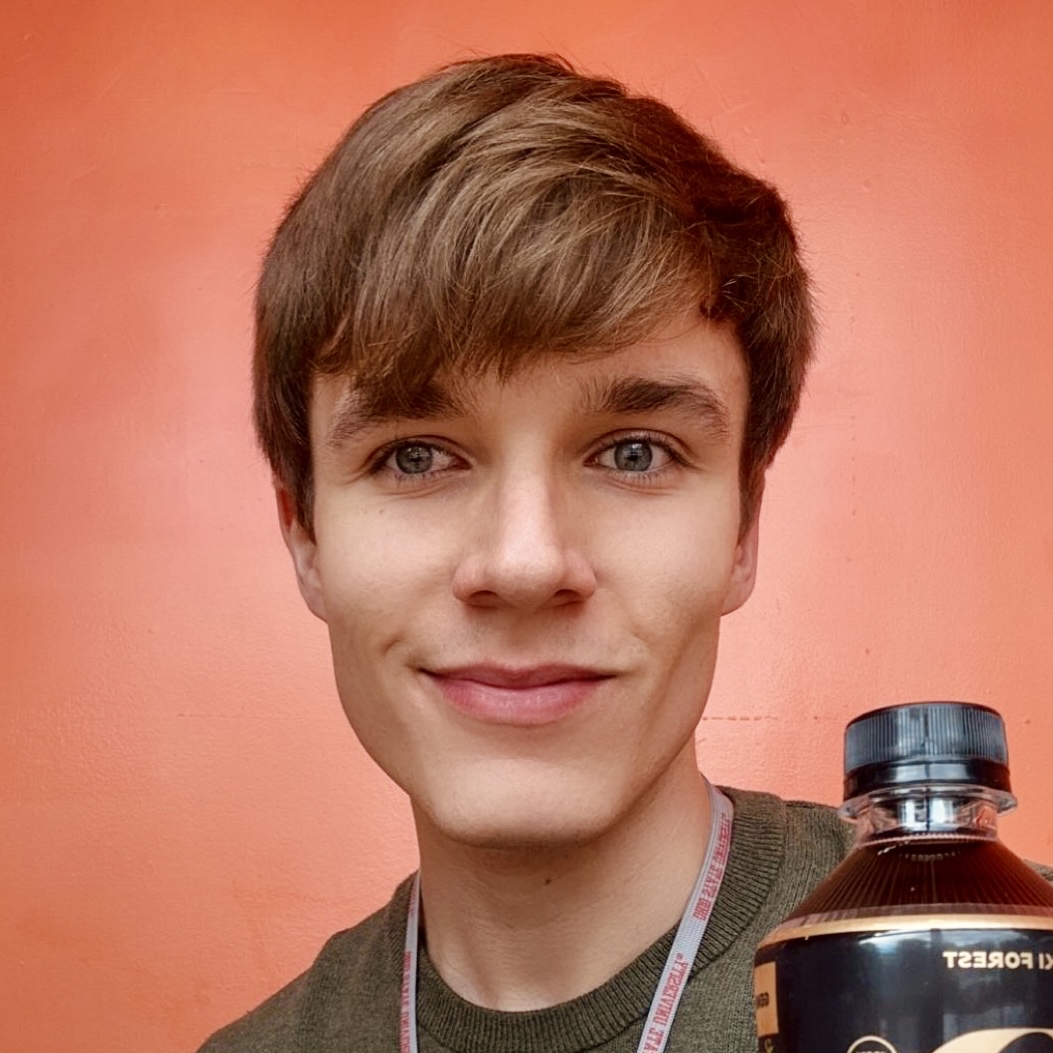
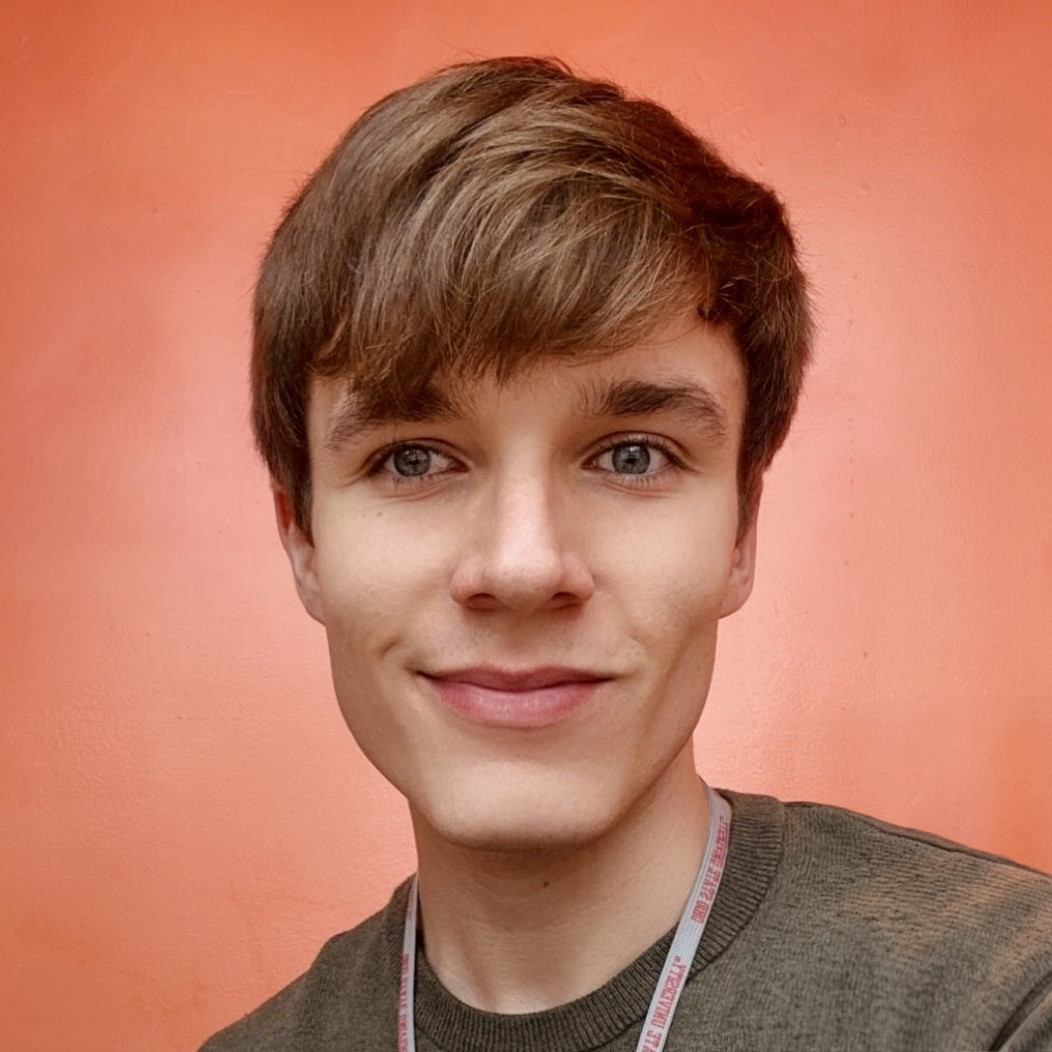
updated hunter and ryan pics, regina description, and commented out printing page

diff --git a/officers.html b/officers.html
@@ -243,11 +243,11 @@
                   </div>
                   <div class="scrollable-paragraph">
 	                  <p class="team-text">
-	                    Regina is a Junior studying Electrical and Computer
-	                    Engineering. She is also interested in embedded systems and
-	                    signal processing. Outside of the Electronics Club, Regina
-	                    is also on the exec board for the powerlifting club and
-	                    enjoys boxing and gaming.
+	                    Regina is a senior studying Electrical and Computer Engineering, 
+	                    and will be pursuing her masters in ECE after graduating this semester. 
+	                    She is interested in embedded systems and signal processing. 
+	                    Outside of the Electronics Club, Regina likes to lift, hike, bike, 
+	                    and play video games.
 	                  </p>
                   </div>
                 </div>
@@ -288,7 +288,7 @@
               <div class="single-team">
                 <div class="team-img">
                   <img
-                    src="assets/img/officers/hunter_cupp.jpg"
+                    src="assets/img/officers/hunter_cupp.JPG"
                     alt=""
                     class="img-responsive"
                   />
@@ -314,7 +314,7 @@
               <div class="single-team">
                 <div class="team-img">
                   <img
-                    src="assets/img/officers/vacant_head_shot.jpg"
+                    src="assets/img/officers/ryan_gehling.jpg"
                     alt=""
                     class="img-responsive"
                   />
@@ -421,13 +421,13 @@
         ><i class="fa-solid fa-microchip fa-2x"></i>
         <div class="label">Projects</div>
       </a>
-      <a
+      <!-- <a
         href="http://printing-e.club/"
         target="_blank"
         rel="noopener noreferrer"
         ><i class="fa-solid fa-print fa-2x"></i>
         <div class="label">3-D Printing</div>
-      </a>
+      </a> -->
       <a href="sponsorship.html"
         ><i class="fa-solid fa-briefcase fa-2x"></i>
         <div class="label">Sponsorship</div>

diff --git a/projects.html b/projects.html
@@ -271,9 +271,9 @@
     <a href="projects.html" class='active-page'><i class="fa-solid fa-microchip fa-2x"></i>
       <div class="label">Projects</div>
     </a>
-    <a href="http://printing-e.club/" target="_blank" rel="noopener noreferrer"><i class="fa-solid fa-print fa-2x"></i>
+    <!-- <a href="http://printing-e.club/" target="_blank" rel="noopener noreferrer"><i class="fa-solid fa-print fa-2x"></i>
       <div class="label">3-D Printing</div>
-    </a>
+    </a> -->
     <a href="sponsorship.html"><i class="fa-solid fa-briefcase fa-2x"></i>
       <div class="label">Sponsorship</div>
     </a>

diff --git a/sponsorship.html b/sponsorship.html
@@ -95,9 +95,9 @@
     <a href="projects.html"><i class="fa-solid fa-microchip fa-2x"></i>
       <div class="label">Projects</div>
     </a>
-    <a href="http://printing-e.club/" target="_blank" rel="noopener noreferrer"><i class="fa-solid fa-print fa-2x"></i>
+    <!-- <a href="http://printing-e.club/" target="_blank" rel="noopener noreferrer"><i class="fa-solid fa-print fa-2x"></i>
       <div class="label">3-D Printing</div>
-    </a>
+    </a> -->
     <a href="sponsorship.html" class='active-page'><i class="fa-solid fa-briefcase fa-2x"></i>
       <div class="label">Sponsorship</div>
     </a>

diff --git a/calendar.html b/calendar.html
@@ -100,9 +100,9 @@
     <a href="projects.html"><i class="fa-solid fa-microchip fa-2x"></i>
       <div class="label">Projects</div>
     </a>
-    <a href="http://printing-e.club/" target="_blank" rel="noopener noreferrer"><i class="fa-solid fa-print fa-2x"></i>
+    <!-- <a href="http://printing-e.club/" target="_blank" rel="noopener noreferrer"><i class="fa-solid fa-print fa-2x"></i>
       <div class="label">3-D Printing</div>
-    </a>
+    </a> -->
     <a href="sponsorship.html"><i class="fa-solid fa-briefcase fa-2x"></i>
       <div class="label">Sponsorship</div>
     </a>

diff --git a/index.html b/index.html
@@ -166,9 +166,9 @@
     <a href="projects.html"><i class="fa-solid fa-microchip fa-2x"></i>
       <div class="label">Projects</div>
     </a>
-    <a href="http://printing-e.club/" target="_blank" rel="noopener noreferrer"><i class="fa-solid fa-print fa-2x"></i>
+    <!-- <a href="http://printing-e.club/" target="_blank" rel="noopener noreferrer"><i class="fa-solid fa-print fa-2x"></i>
       <div class="label">3-D Printing</div>
-    </a>
+    </a> -->
     <a href="sponsorship.html"><i class="fa-solid fa-briefcase fa-2x"></i>
       <div class="label">Sponsorship</div>
     </a>
